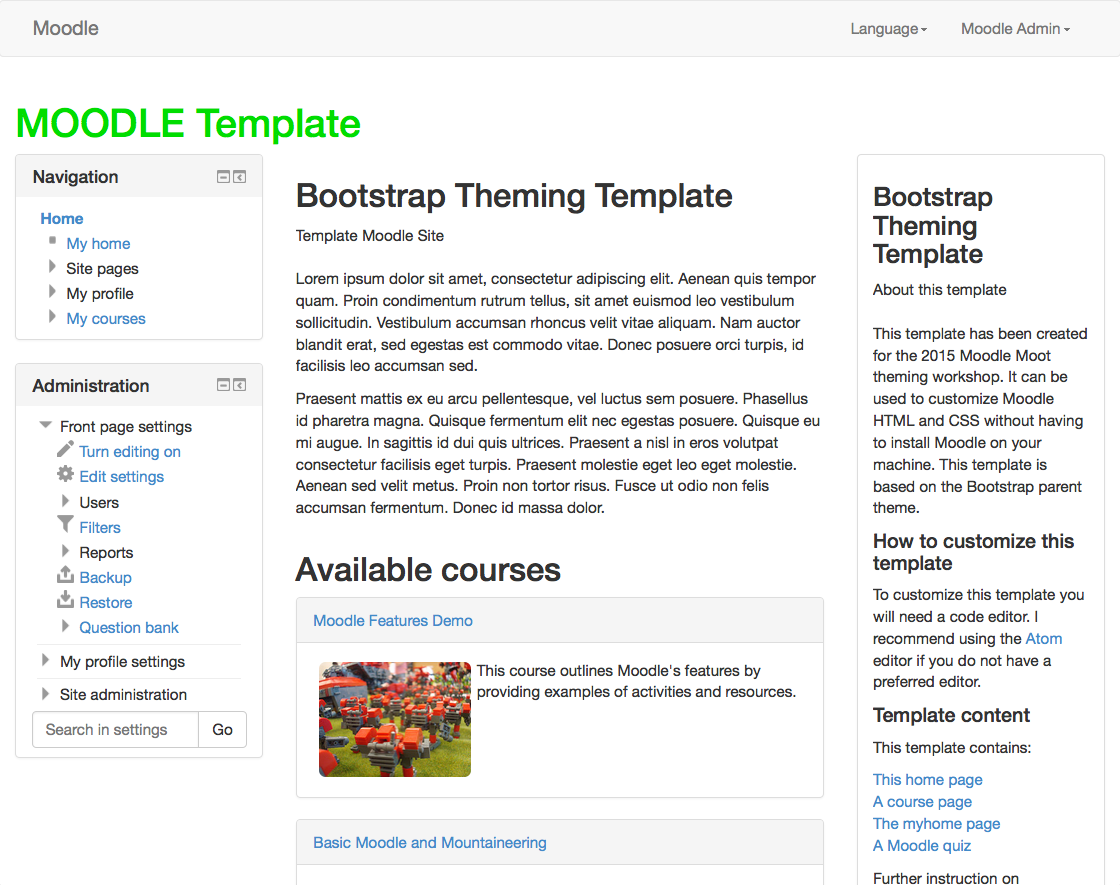
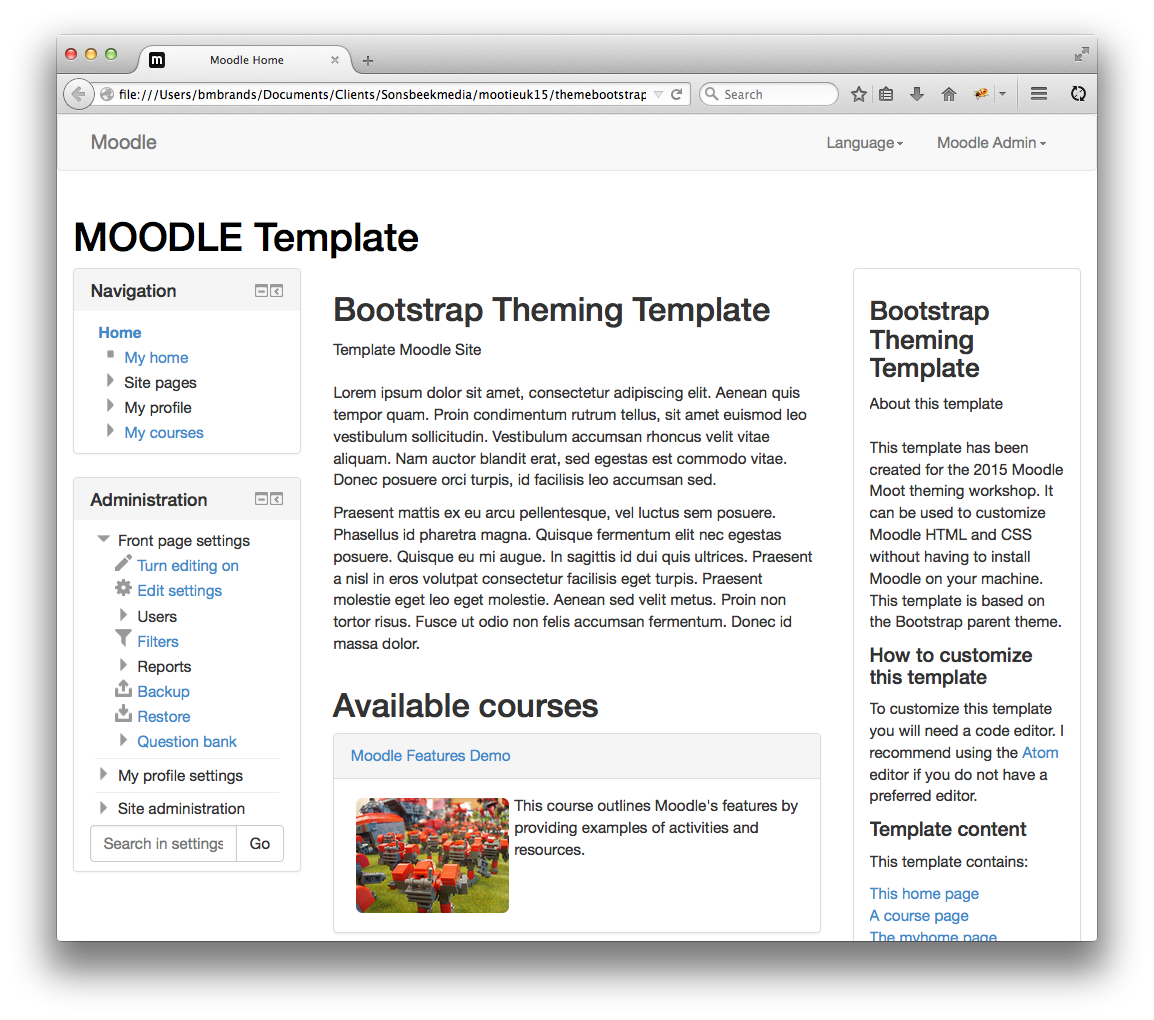
update screenshot

diff --git a/css/custom.css b/css/custom.css
@@ -1,5 +1,5 @@
 /*Start Customizing your CSS here!*/
 
 .moodleheader h1 {
-    color: #00DD00;
+    color: #000000;
 }
